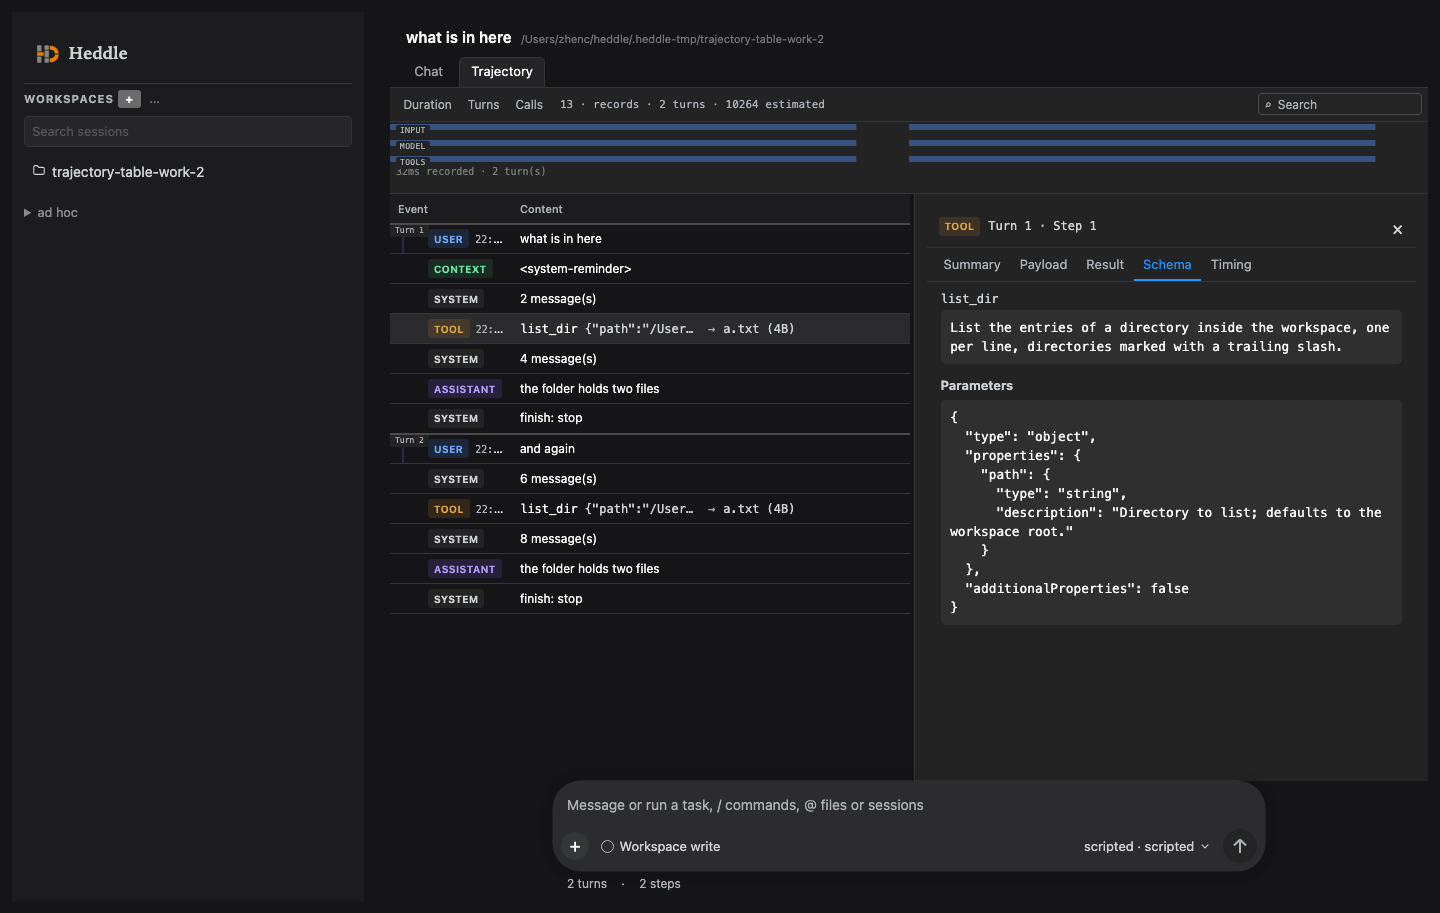
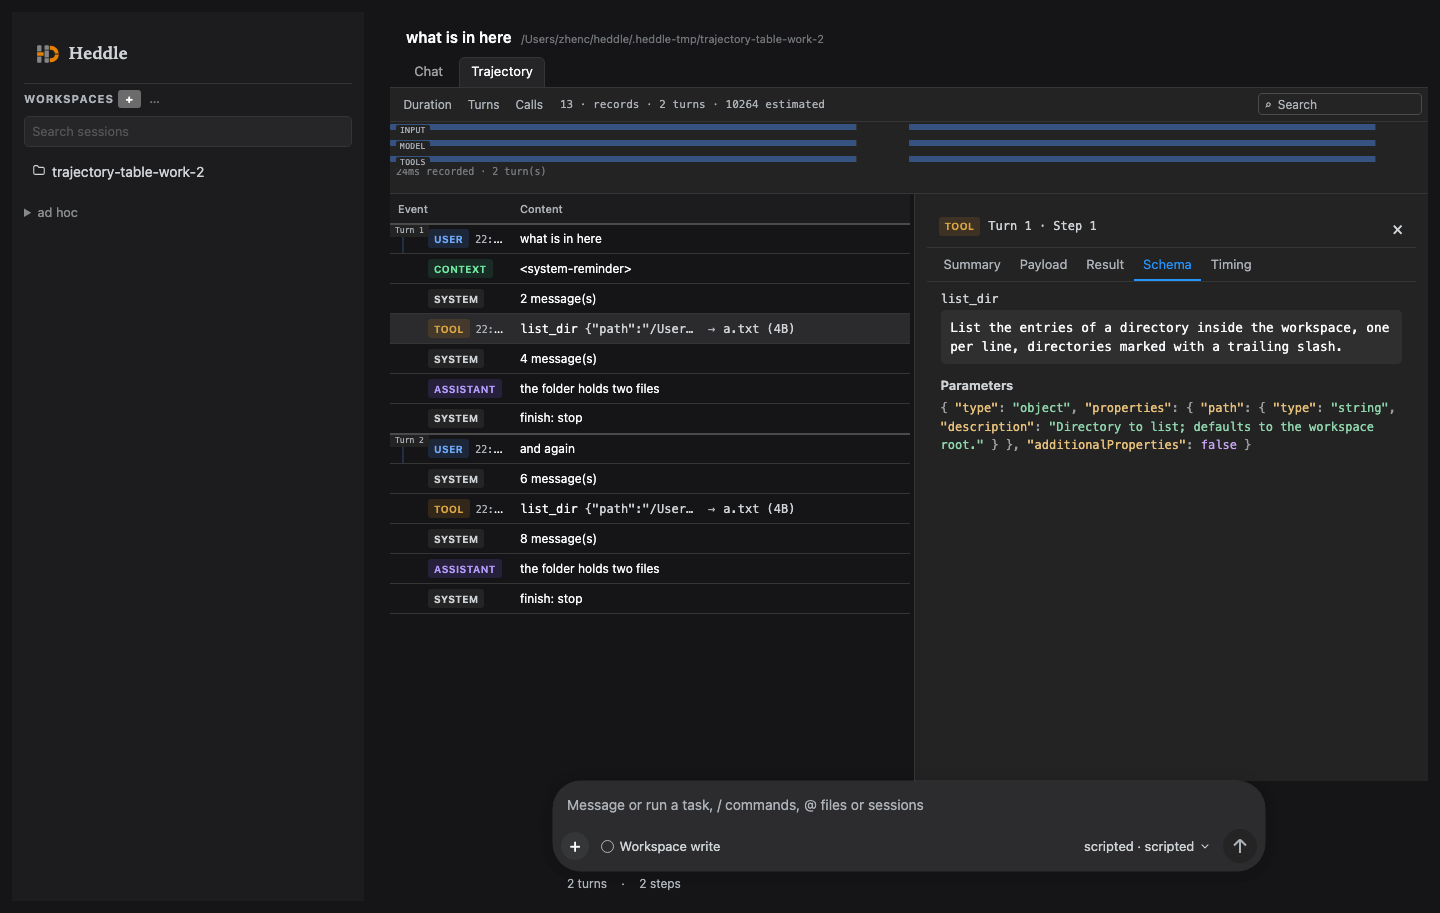
feat(trajectory): the tool inspector is DSH's accordion, with JSON rendered as JSON
The comparison's gap list, closed:

- **Summary is DSH's six-section accordion** — Hierarchy, Status, Payload, Result, Schema, Timing — each
  open by default with a chevron; `<details>` is the native collapse control, so it folds without script
  and keeps its keyboard behaviour. The five tabs remain focused views of the same content.
- **Schema appears in Summary** as well as its own tab, and the tab and the section share one renderer.
- **JSON is rendered as JSON.** The payload and the schema parameters are highlighted by the project's
  tested renderer (`renderCode(..., 'json', { gutter: false })`) **on the server**, so the page only
  inserts markup it did not build and a model's strings cannot become markup. A payload that does not
  parse is shown as escaped text rather than pretending to be JSON. `renderCode` grew one option and one
  test for the no-gutter block.
- **An error result is tinted** in the pane, matching the row's tint.
- **Hierarchy links stay unported** — documented as the deliberate difference: heddle's rows are not
  nested, so a link would point at the row the reader is already in.

Found and fixed while verifying: the page had been calling `rowsOf(data.ledger ?? data)`, which threw
away the server's `rows` projection — the very projection that carries the rendered inspection — and
silently fell back to flattening the raw ledger. One argument; the inspector then showed rendered JSON.
[…]

diff --git a/src/server/page.html b/src/server/page.html
@@ -1117,6 +1117,13 @@
   .tr-d-rows dd { margin: 0; color: var(--text); overflow-wrap: anywhere; }
   .tr-d-section { margin: 12px 0 4px; color: var(--text-2); font-size: 13px; font-weight: 600; }
   .tr-d-body pre { margin: 6px 0 0; padding: 8px 10px; border-radius: 4px; background: var(--code-bg); color: var(--text); font: 12px/19px var(--mono); white-space: pre-wrap; overflow-wrap: anywhere; }
+  .tr-d-acc { margin: 0 0 6px; }
+  .tr-d-acc > summary { cursor: pointer; padding: 2px 0; color: var(--text-2); font-size: 13px; font-weight: 600; list-style: none; }
+  .tr-d-acc > summary::-webkit-details-marker { display: none; }
+  .tr-d-acc > summary::before { content: '▸'; display: inline-block; width: 12px; color: var(--text-3); }
+  .tr-d-acc[open] > summary::before { content: '▾'; }
+  .tr-html pre { margin: 6px 0 0; }
+  .tr-error-text { color: #d14343; }
   .tr-d-body details { margin: 2px 0; }
   .tr-d-body details > summary { color: var(--text-2); cursor: pointer; font-size: 13px; }
   .tr-d-empty { color: var(--text-3); font-size: 13px; }
@@ -1908,7 +1915,7 @@ function renderLedger(data, timeline_ = { spans: [], durationMs: 0 }) {
    * render idempotent whoever called it.
    */
   turnAnchors.clear()
-  trajectory.rows = rowsOf(data.ledger ?? data)
+  trajectory.rows = rowsOf(data)
   trajectory.turns = new Map((data.ledger?.turns ?? []).map((turn) => [turn.index, turn]))
   trajectory.timeline = timeline_
   trajectory.data = data
@@ -2194,9 +2201,9 @@ function renderDetails(row) {
    */
   const sections = [
     ['Summary', () => summarySection(row, record, step)],
-    ['Payload', () => (String(record.text ?? '') === '' ? trEmpty('nothing was recorded as a payload') : trPre(String(record.text)))],
-    ['Result', () => (String(record.result ?? '') === '' ? trEmpty('no result recorded') : trPre(String(record.result)))],
-    ...(row.kind === 'tool' ? [['Schema', () => schemaSection(record)]] : []),
+    ['Payload', () => (row.inspection?.payload !== undefined ? htmlBlock(row.inspection.payload) : String(record.text ?? '') === '' ? trEmpty('nothing was recorded as a payload') : trPre(String(record.text)))],
+    ['Result', () => (row.inspection?.result !== undefined ? htmlBlock(row.inspection.result) : String(record.result ?? '') === '' ? trEmpty('no result recorded') : trPre(String(record.result)))],
+    ...(row.kind === 'tool' ? [['Schema', () => schemaSection(row, record)]] : []),
     ['Timing', () => timingSection(record, turn, step)],
   ]
   const show = (index) => {
@@ -2217,33 +2224,62 @@ function renderDetails(row) {
 }
 
 function summarySection(row, record, step) {
+  /**
+   * DSH's Summary is an **accordion**: Hierarchy, Status, Payload, Result, Schema and Timing, each an
+   * `h3`-and-chevron heading that collapses, open by default. A `<details open>` is the native version of
+   * that control: it collapses without script and keeps its keyboard behaviour.
+   */
   const box = document.createElement('div')
   box.append(
-    trRows([
-      ['Kind', KIND_LABEL[row.kind] ?? row.kind],
-      ['Status', record.inFlight === true ? 'Running' : record.state === 'error' ? 'Failed' : 'Completed'],
-      ['Model', step?.model],
-      ['Started', clock(record.startedAt)],
-      ['Duration', human(record.durationMs)],
-      ['TTFT', human(record.ttftMs)],
-      ['Turn', row.loose ? 'none' : row.turn],
-      ['Step', row.step],
-    ]),
+    accOpen('Hierarchy', trRows([['Turn', row.loose ? 'none' : row.turn], ['Step', row.step], ['Model', step?.model]])),
+    accOpen('Status', trRows([['Status', record.inFlight === true ? 'Running' : record.state === 'error' ? 'Failed' : 'Completed']])),
   )
   if (row.kind === 'tool') {
-    box.append(trSection('Payload'), trPre(String(record.text ?? '')))
-    box.append(trSection('Result'), trPre(String(record.result ?? '(no result recorded)')))
+    box.append(
+      accOpen('Payload', row.inspection?.payload !== undefined ? htmlBlock(row.inspection.payload) : trPre(String(record.text ?? ''))),
+      accOpen('Result', row.inspection?.result !== undefined ? htmlBlock(row.inspection.result) : trPre(String(record.result ?? '(no result recorded)'))),
+      accOpen('Schema', schemaSection(row, record)),
+    )
   } else if (record.text !== undefined && String(record.text) !== '') {
-    box.append(trSection('Content'), trPre(String(record.text)))
+    box.append(accOpen('Content', trPre(String(record.text))))
   }
+  box.append(accOpen('Timing', timingSection(record, trajectory.turns.get(row.turn), step)))
   if (record.note !== undefined) box.append(trEmpty(String(record.note)))
   return box
 }
 
-/** The tool's own definition, as the profile declared it. */
-function schemaSection(record) {
+/** A Summary section: a native disclosure, open by default, with a chevron in its summary. */
+function accOpen(title, content) {
+  const details = document.createElement('details')
+  details.className = 'tr-d-acc'
+  details.open = true
+  const summary = document.createElement('summary')
+  summary.textContent = title
+  details.append(summary, content)
+  return details
+}
+
+/** Markup the **server** rendered with the tested, escaping renderer. */
+function htmlBlock(html) {
   const box = document.createElement('div')
+  box.className = 'tr-html'
+  box.innerHTML = html
+  return box
+}
+
+/** The tool's own definition, as the profile declared it. */
+function schemaSection(row, record) {
+  const box = document.createElement('div')
+  const rendered = row.inspection?.schema
   const name = record.name ?? String(record.label ?? '').replace(/^→ /, '')
+  if (rendered !== undefined) {
+    const heading = document.createElement('div')
+    heading.className = 'tr-d-where'
+    heading.textContent = rendered.name
+    box.append(heading, trPre(rendered.description ?? ''))
+    box.append(trSection('Parameters'), htmlBlock(rendered.parameters))
+    return box
+  }
   const tool = (trajectory.tools ?? []).find((entry) => entry.name === name)
   if (tool === undefined) {
     box.append(trEmpty('this profile does not describe that tool'))
@@ -2791,8 +2827,15 @@ const chatMain = document.querySelector('main')
 const columnGrips = [...document.querySelectorAll('.column-grip')]
 /** DSH's `CONTENT_MIN`, the floor of a dragged width. */
 const COLUMN_MIN = 640
-/** DSH's `CONTENT_EDGE_BUDGET`: the room its two handles and their safe edges need beside the column. */
-const COLUMN_EDGE_BUDGET = 176
+/**
+ * The room the two grips and their safe edges need beside the column.
+ *
+ * DSH uses **176px** for the same purpose, but its centre region is ~1018px wide at a 1280 window; heddle's is
+ * ~878px because its sidebar is wider, and 176 there would leave a 680px default only 22px of headroom — a grip
+ * that cannot move is not a grip. 48px is the same rule measured against this layout: two 10px grips, a 4px
+ * inset each, and a 10px margin, which is what the CSS width above also assumes.
+ */
+const COLUMN_EDGE_BUDGET = 48
 const COLUMN_STORAGE = 'heddle.chatColumn'
 
 /** The widest column the view area can hold: everything but the two grips' edge budget. */

diff --git a/src/server/tool-inspector.ts b/src/server/tool-inspector.ts
@@ -1,0 +1,66 @@
+import { renderCode } from './code.ts'
+import { escapeHtml } from './markdown.ts'
+import { schemaFor, type ToolSchema } from './tool-catalog.ts'
+
+/**
+ * What a tool row's inspector shows, rendered on the server with the renderers that are already tested.
+ *
+ * DSH's inspector renders the payload and the schema parameters as JSON (a json-tree component) and the
+ * result as a monospace block. Heddle has no second renderer to write: `renderCode(..., 'json')` already
+ * escapes every byte and highlights it, and its escaping is judged by the unit suite. This module turns one
+ * tool row into those three blocks, purely, so the page only inserts markup it did not build.
+ */
+export interface ToolInspection {
+  /** The arguments, highlighted JSON when they parse. */
+  readonly payload: string
+  readonly payloadIsJson: boolean
+  /** The result, as an escaped block; an error is marked so it can be tinted. */
+  readonly result: string
+  readonly resultIsError: boolean
+  /** The tool's definition, when the profile declares it. */
+  readonly schema?: {
+    readonly name: string
+    readonly description: string
+    /** The parameter JSON Schema, highlighted. */
+    readonly parameters: string
+  }
+}
+
+/** JSON as JSON when it parses, escaped text otherwise — arguments are not always valid JSON. */
+export function renderPayload(text: string): { readonly html: string; readonly isJson: boolean } {
+  const trimmed = text.trim()
+  if (trimmed.startsWith('{') || trimmed.startsWith('[')) {
+    try {
+      const parsed: unknown = JSON.parse(trimmed)
+      return { html: renderCode(JSON.stringify(parsed, null, 2), 'json', { gutter: false }), isJson: true }
+    } catch {
+      // A partial or provider-shaped payload: show it as text rather than pretending it is JSON.
+    }
+  }
+  return { html: `<pre class="tr-plain">${escapeHtml(text)}</pre>`, isJson: false }
+}
+
+/** One tool row's inspector content. */
+export function inspectTool(
+  input: { readonly payload: string; readonly result: string; readonly name?: string; readonly error?: boolean },
+  catalog: readonly ToolSchema[],
+): ToolInspection {
+  const payload = renderPayload(input.payload)
+  const result = `<pre class="tr-result-text${input.error === true ? ' tr-error-text' : ''}">${escapeHtml(input.result)}</pre>`
+  const tool = input.name === undefined ? undefined : schemaFor(catalog, input.name)
+  return {
+    payload: payload.html,
+    payloadIsJson: payload.isJson,
+    result,
+    resultIsError: input.error === true,
+    ...(tool !== undefined
+      ? {
+          schema: {
+            name: tool.name,
+            description: tool.description,
+            parameters: renderCode(JSON.stringify(tool.parameters, null, 2), 'json', { gutter: false }),
+          },
+        }
+      : {}),
+  }
+}

diff --git a/test/tool-inspector.test.ts b/test/tool-inspector.test.ts
@@ -1,0 +1,45 @@
+import assert from 'node:assert/strict'
+import { test } from 'node:test'
+
+import { inspectTool, renderPayload } from '../src/server/tool-inspector.ts'
+import { catalogOf } from '../src/server/tool-catalog.ts'
+
+/**
+ * The tool inspector's three blocks.
+ *
+ * Two properties matter more than the styling: arguments are shown **as JSON only when they parse**, and
+ * every byte of a payload or result is escaped — the strings come from a model, not from this project.
+ */
+
+test('valid JSON arguments are rendered as highlighted JSON, without a line gutter', () => {
+  const rendered = renderPayload('{"path": "/tmp", "limit": 10}')
+  assert.equal(rendered.isJson, true)
+  assert.match(rendered.html, /hljs-/)
+  assert.ok(!rendered.html.includes('class="ln"'), 'an inspector block needs no line numbers')
+  assert.match(rendered.html, /&quot;path&quot;/, 'and the keys are still escaped text')
+})
+
+test('arguments that are not JSON are shown as escaped text', () => {
+  const rendered = renderPayload('{"path": <script>alert(1)</script>')
+  assert.equal(rendered.isJson, false)
+  assert.ok(!rendered.html.includes('<script'), 'a payload cannot become markup')
+  assert.match(rendered.html, /&lt;script&gt;/, 'and it is visible as text')
+})
+
+test('an error result is marked so the pane can tint it', () => {
+  const inspection = inspectTool({ payload: '{}', result: 'error: exit 1', error: true }, [])
+  assert.equal(inspection.resultIsError, true)
+  assert.match(inspection.result, /tr-error-text/)
+  assert.match(inspection.result, /error: exit 1/)
+})
+
+test('a tool the profile declares carries its schema, and an unknown one does not', () => {
+  const catalog = catalogOf([{ name: 'bash', description: 'run a shell', parameters: { type: 'object', properties: { command: { type: 'string' } } } }])
+  const known = inspectTool({ payload: '{"command":"pwd"}', result: 'ok', name: 'bash' }, catalog)
+  assert.equal(known.schema?.name, 'bash')
+  assert.equal(known.schema?.description, 'run a shell')
+  assert.match(known.schema?.parameters ?? '', /hljs-/)
+  assert.match(known.schema?.parameters ?? '', /command/)
+  const unknown = inspectTool({ payload: '{}', result: 'ok', name: 'nope' }, catalog)
+  assert.equal(unknown.schema, undefined)
+})

diff --git a/src/server/web.ts b/src/server/web.ts
@@ -10,6 +10,7 @@ import { renderSource } from './code.ts'
 import { pickFolder } from './picker.ts'
 import { projectLedger, projectRows, projectTimeline } from './ledger.ts'
 import { catalogOf } from './tool-catalog.ts'
+import { inspectTool } from './tool-inspector.ts'
 import { PREVIEW_CSP, rewriteResources } from './html.ts'
 import { renderMarkdown } from './markdown.ts'
 import { expandHome } from '../config/schema.ts'
@@ -1169,12 +1170,29 @@ async function handle(ctx: Context, request: IncomingMessage, response: ServerRe
        * The **tool catalog** travels with the ledger: DSH's tool inspector has a Schema section beside the
        * payload and the result, and the page needs the definition the model was offered to show it.
        */
-      respond(
-        response,
-        200,
-        'application/json',
-        `${JSON.stringify({ id, ledger, rows: projectRows(ledger), timeline: projectTimeline(ledger), tools: catalogOf(ctx.tools.describe()) }, null, 2)}\n`,
+      const tools = catalogOf(ctx.tools.describe())
+      /**
+       * A tool row travels with its inspector content already rendered: the payload and the schema
+       * parameters are highlighted JSON, and every byte of them is escaped by the renderer the unit suite
+       * judges. The page therefore never builds markup from a model's strings.
+       */
+      const rows = projectRows(ledger).map((row) =>
+        row.kind === 'tool'
+          ? {
+              ...row,
+              inspection: inspectTool(
+                {
+                  payload: row.record.text,
+                  result: row.record.result ?? '',
+                  ...(row.record.name !== undefined ? { name: row.record.name } : {}),
+                  ...(row.record.state === 'error' ? { error: true } : {}),
+                },
+                tools,
+              ),
+            }
+          : row,
       )
+      respond(response, 200, 'application/json', `${JSON.stringify({ id, ledger, rows, timeline: projectTimeline(ledger), tools }, null, 2)}\n`)
       return
     }
     /** The session's own record, which is where a switch from the panel was written. */

diff --git a/src/server/code.ts b/src/server/code.ts
@@ -208,13 +208,14 @@ function unescapeEntities(text: string): string {
  * the number is presentation, so selecting the panel and copying it gets the source and not the
  * numbers.
  */
-export function renderCode(source: string, language: string): string {
+export function renderCode(source: string, language: string, options: { readonly gutter?: boolean } = {}): string {
   const pieces = piecesFrom(highlightCode(source.replace(/\r\n?/g, '\n'), language))
   const out: string[] = ['<code class="code">']
   let line = 1
   let open = false
+  const gutter = options.gutter !== false
   const startLine = (): void => {
-    out.push(`<span class="line"><span class="ln">${line}</span>`)
+    out.push(gutter ? `<span class="line"><span class="ln">${line}</span>` : '<span class="line">')
     open = true
   }
   startLine()

diff --git a/test/render.test.ts b/test/render.test.ts
@@ -282,3 +282,10 @@ test('a link this server cannot resolve is left alone, and a refused one is text
   const raw = String(renderSource('/x/a.md', '<a href="README.md">raw</a>').html)
   assert.match(raw, /href="\/api\/raw\?path=%2Fx%2FREADME\.md"/, 'a raw HTML link is resolved to the served address')
 })
+
+test('a JSON block can be rendered without the line-number gutter', () => {
+  const html = renderCode('{"a": 1}', 'json', { gutter: false })
+  assert.ok(!html.includes('class="ln"'), 'no gutter spans')
+  assert.match(html, /hljs-/, 'but the JSON is still highlighted')
+  assert.equal(textOf(html), '{"a": 1}')
+})

diff --git a/_context_/dsh-mechanisms/dsh-trajectory-ui.md b/_context_/dsh-mechanisms/dsh-trajectory-ui.md
@@ -244,3 +244,9 @@ shows one of them alone. A section's heading is its collapse control; sections a
 5. Hierarchy links are **not** ported; heddle's table already shows the turn and step, and its rows are not
    nested, so a link would point at a row the reader is already looking at. Recorded as a deliberate
    difference rather than an oversight.
+
+**Status (2026-10-17): the gap list above is closed.** The Summary is the six-section accordion (open by
+default, `<details>` as the native collapse control), Schema appears in Summary as well as its own tab,
+the payload and the schema parameters are rendered as **highlighted JSON by the tested renderer**
+(`renderCode(..., 'json', { gutter: false })`) on the server, and an error result is tinted in the pane
+as well as on the row. Hierarchy links remain the one deliberate difference, for the reason given.
